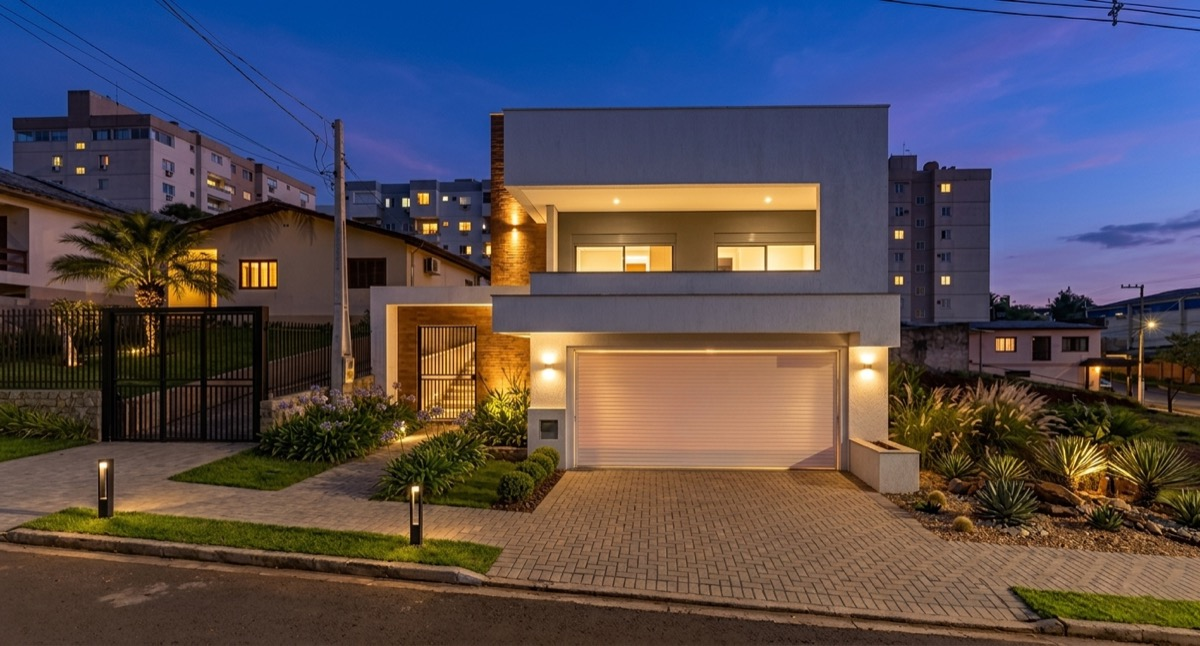
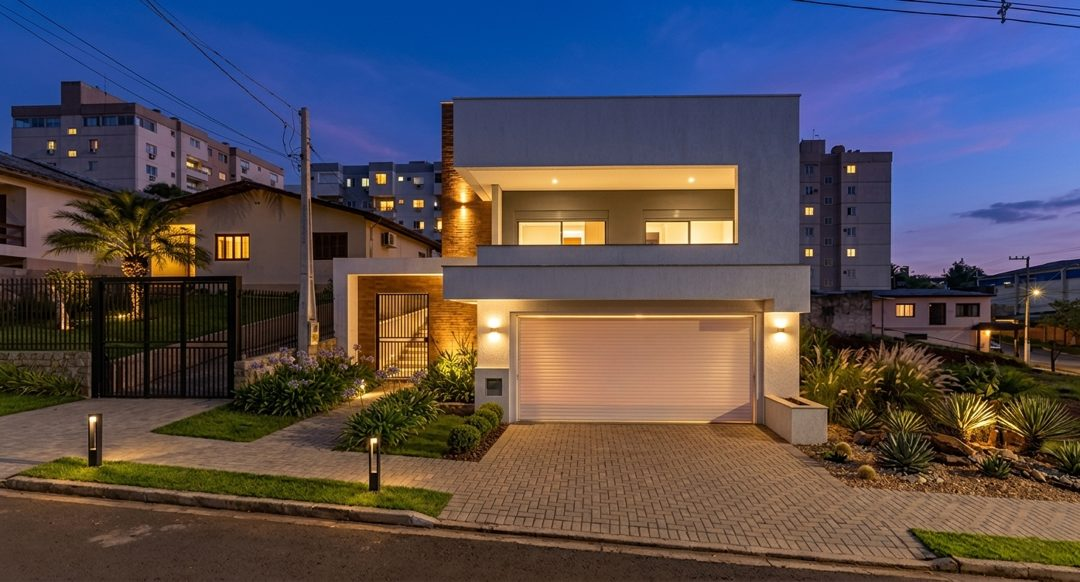
Otimizar desempenho: hero em WebP e fontes enxutas
- Hero reduzido de 2400px para 1920px e servido em WebP com fallback
  JPEG via <picture>: desktop 639 KB -> 157 KB (WebP) / 287 KB (fallback);
  mobile 203 KB -> 74 KB. É o LCP, então acelera bastante o primeiro load.
- Remove pesos de fonte não usados (Jost 700 e itálico), reduzindo o
  download das fontes.
- Adiciona width/height no hero para estabilidade de layout.

Changed region(s): [[0.8861, 0.6804, 0.9472, 0.7423], [0.3667, 0.6186, 0.4278, 0.6495], [0.3361, 0.5567, 0.3972, 0.5876]]

diff --git a/index.html b/index.html
@@ -7,7 +7,7 @@
 <meta name="description" content="Arquiteto e urbanista. Projetos residenciais, de interiores, comerciais e institucionais que unem estética, técnica e propósito, do estudo preliminar ao acompanhamento de obra.">
 <link rel="preconnect" href="https://fonts.googleapis.com">
 <link rel="preconnect" href="https://fonts.gstatic.com" crossorigin>
-<link href="https://fonts.googleapis.com/css2?family=Jost:ital,wght@0,300;0,400;0,500;0,600;0,700;1,400&family=Spectral:wght@200;300;400&display=swap" rel="stylesheet">
+<link href="https://fonts.googleapis.com/css2?family=Jost:wght@300;400;500;600&family=Spectral:wght@200;300;400&display=swap" rel="stylesheet">
 <link rel="icon" href="assets/marca.png" type="image/png">
 <link rel="stylesheet" href="styles.css">
 </head>
@@ -53,8 +53,10 @@
 <!-- ══ HERO ══ -->
 <section class="hero">
   <picture class="hero__img">
+    <source type="image/webp" media="(max-width: 760px)" srcset="assets/hero/banner-mobile.webp">
+    <source type="image/webp" srcset="assets/hero/banner.webp">
     <source media="(max-width: 760px)" srcset="assets/hero/banner-mobile.jpg">
-    <img src="assets/hero/banner.jpg" alt="Residência contemporânea de dois pavimentos ao anoitecer, com iluminação embutida na fachada e paisagismo iluminado" fetchpriority="high">
+    <img src="assets/hero/banner.jpg" width="1920" height="1035" alt="Residência contemporânea de dois pavimentos ao anoitecer, com iluminação embutida na fachada e paisagismo iluminado" fetchpriority="high">
   </picture>
 
   <div class="hero__conteudo">
